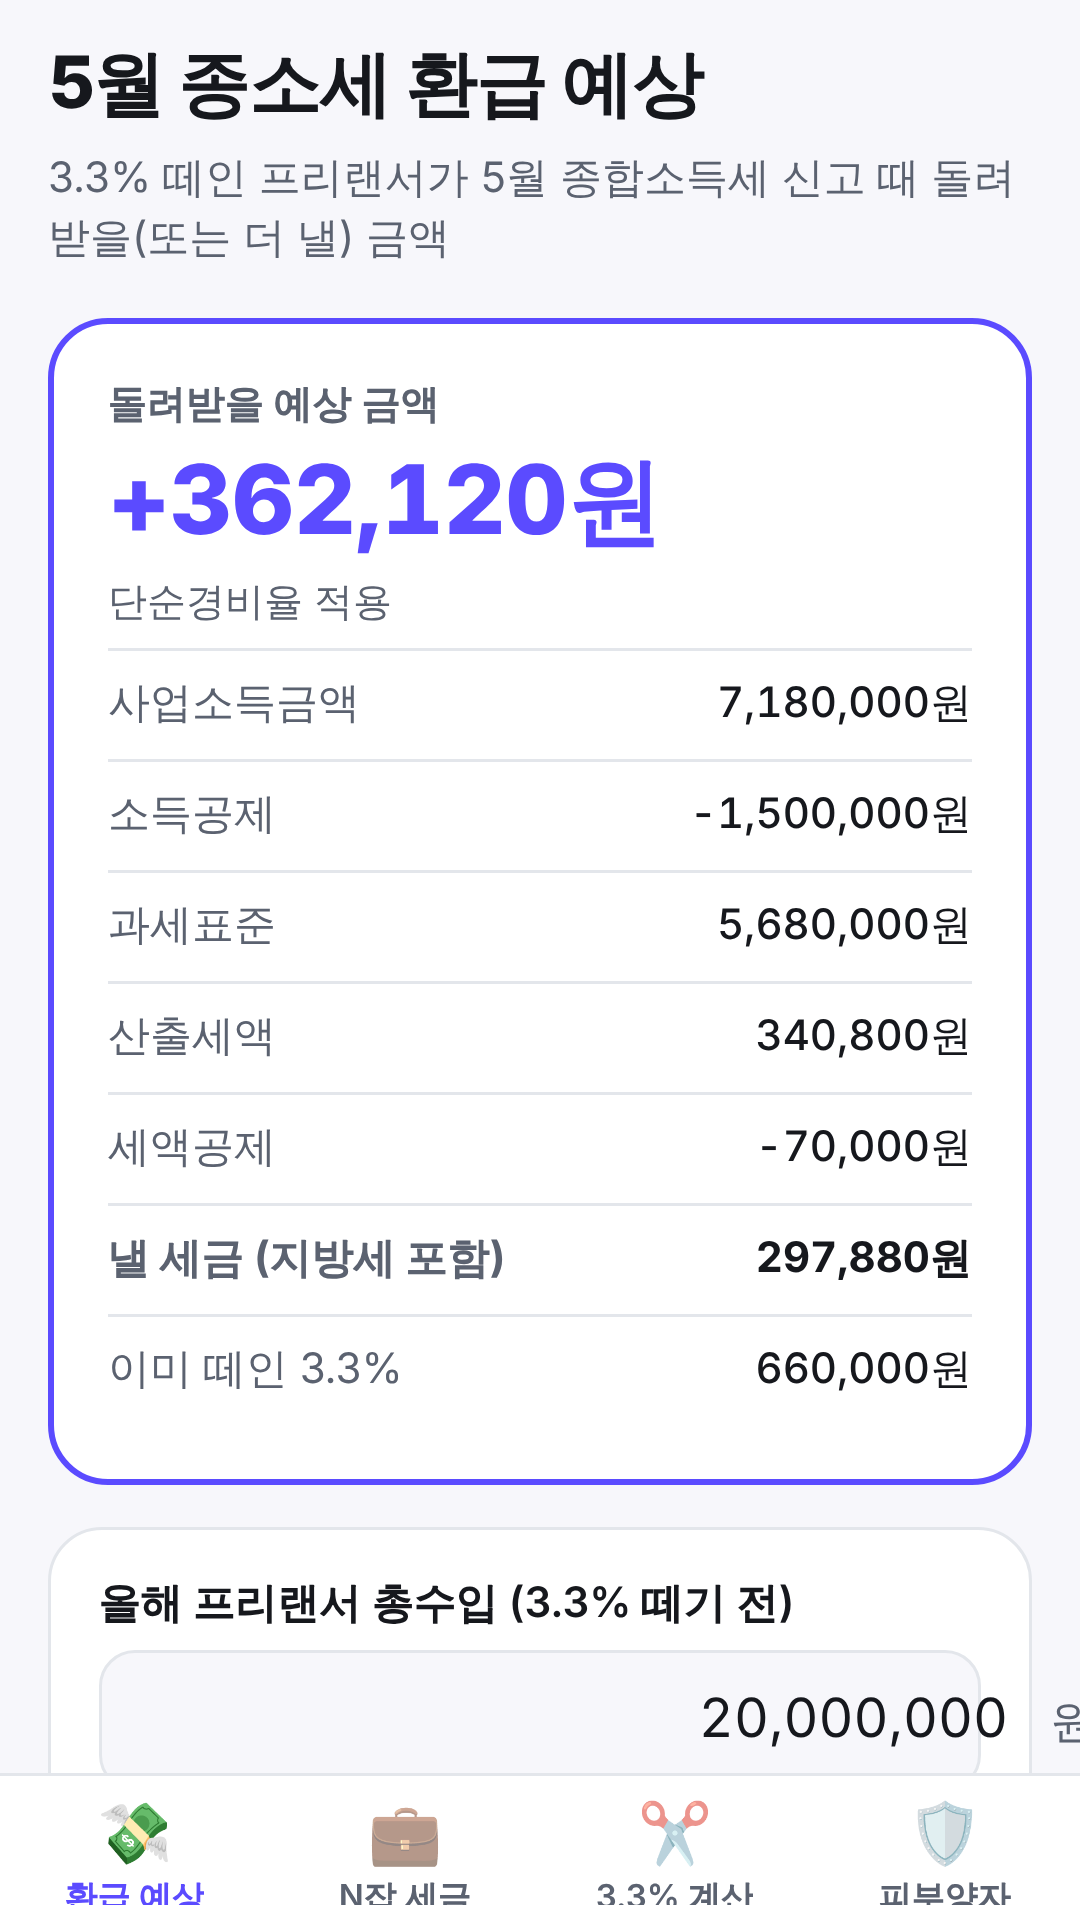
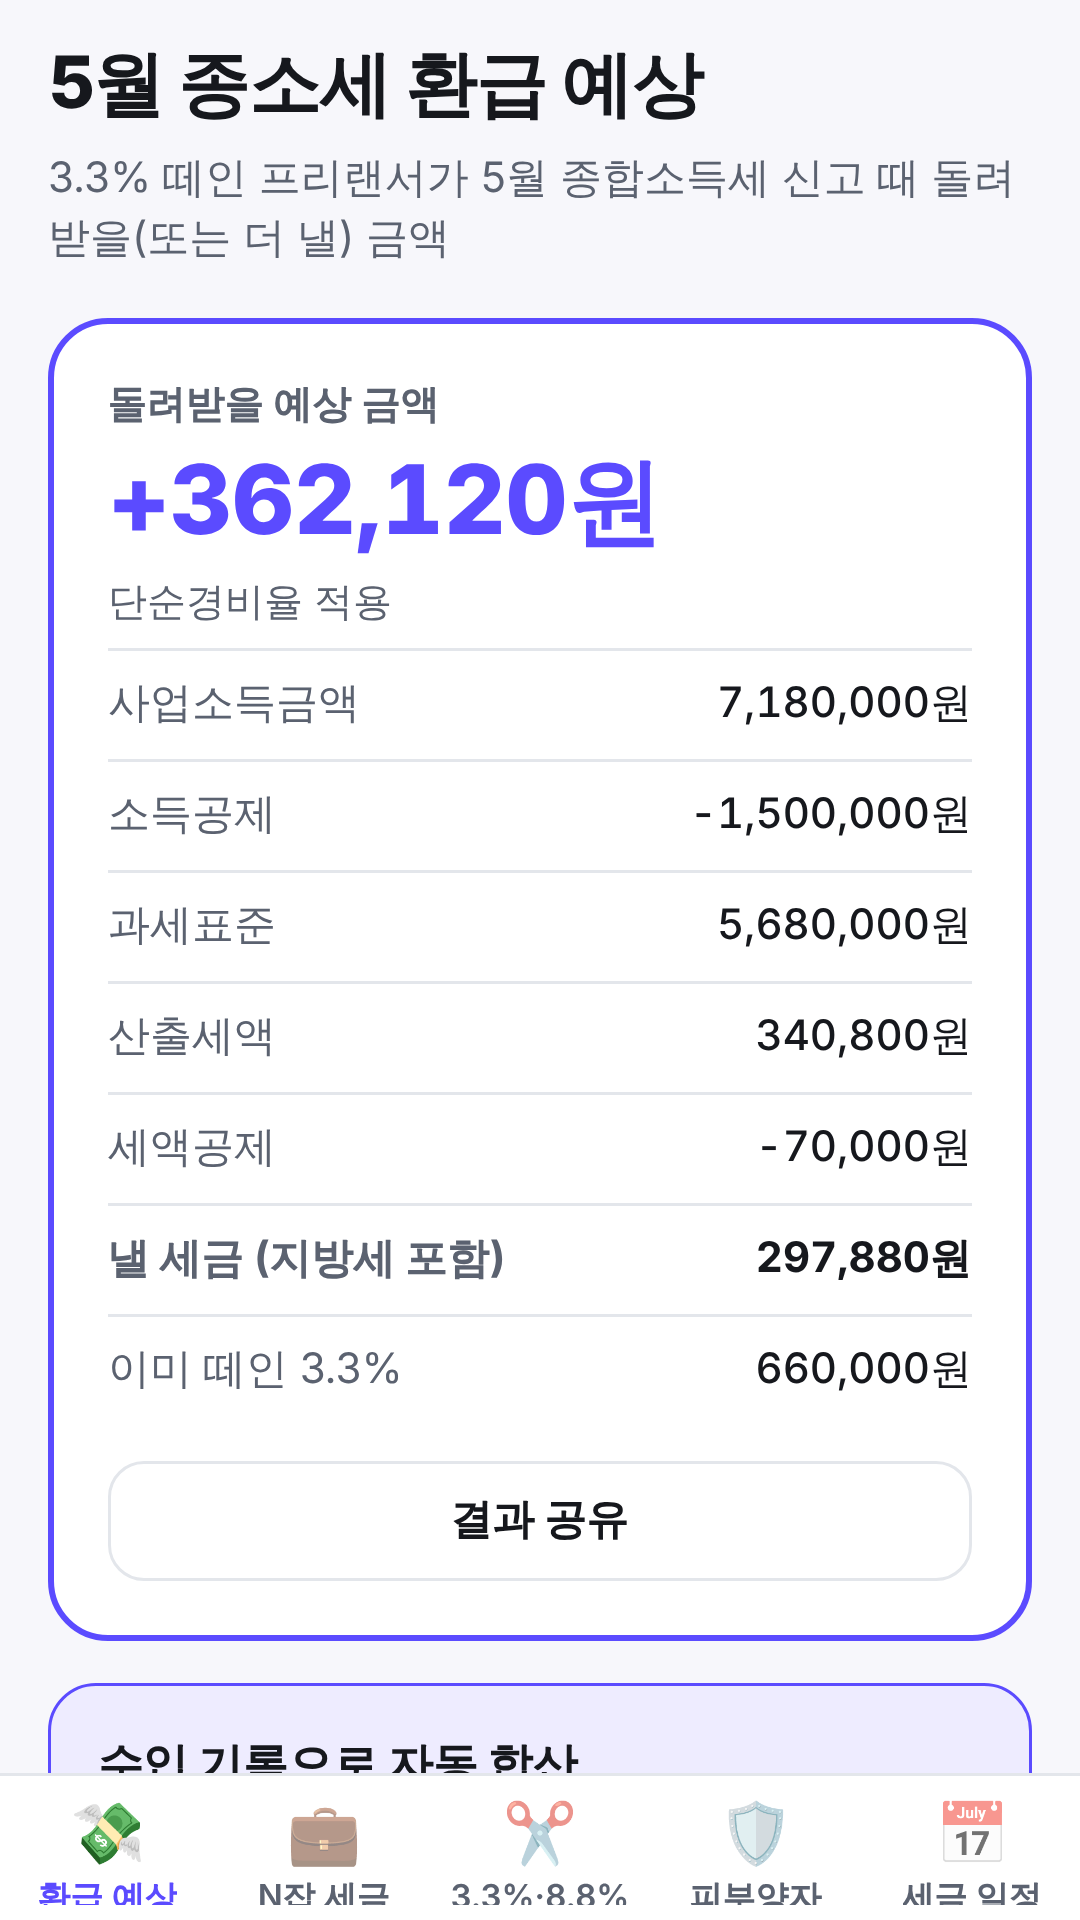
v1.5.1: UI polish and refreshed store listing
- Screens under a stack header no longer repeat their title in the body
- Shorter EITC row label so amounts stay on one line
- Store description covers the ledger, EITC, regional premium, 8.8%
  and reminders; seven 1080x1920 screenshots from the current build

diff --git a/src/components/Screen.tsx b/src/components/Screen.tsx
@@ -13,7 +13,8 @@ export function Screen({ title, subtitle, children, underHeader = false }: { tit
       contentContainerStyle={[styles.content, { paddingTop: underHeader ? 16 : insets.top + 12 }]}
       keyboardShouldPersistTaps="handled">
       <View style={styles.header}>
-        <Text style={[styles.title, { color: t.text }]}>{title}</Text>
+        {/* 상단 헤더가 있는 화면은 헤더에 제목이 이미 있으므로 본문 제목을 생략한다. */}
+        {underHeader ? null : <Text style={[styles.title, { color: t.text }]}>{title}</Text>}
         {subtitle ? <Text style={[styles.subtitle, { color: t.muted }]}>{subtitle}</Text> : null}
       </View>
       {children}

diff --git a/src/app/eitc.tsx b/src/app/eitc.tsx
@@ -18,7 +18,7 @@ export default function EitcScreen() {
 
   const r = calcEitc({ type, businessRevenue, wage, spouseEarnings, otherIncome, property, late });
   const rows: Row[] = [
-    { label: '내 총급여액 등 (3.3% 수입 × 90% + 근로)', value: won(r.ownEarnings) },
+    { label: '내 총급여액 등', value: won(r.ownEarnings) },
     { label: '가구 총급여액 등', value: won(r.earnings) },
     { label: '가구 연간 총소득', value: won(r.totalIncome) },
   ];

diff --git a/store/listing.md b/store/listing.md
@@ -13,20 +13,30 @@
 
 ■ 5월 종합소득세 환급 예상
 · 단순경비율·기준경비율 자동 판정 (작년 수입 3,600만원 기준)
-· 기준경비율 2.8배·3.4배 상한 반영
-· 인적공제, 국민연금, 노란우산공제, 자녀세액공제 반영
+· 기준경비율 2.8배·3.4배 상한, 인적공제·국민연금·노란우산·자녀세액공제 반영
 · 업종별 경비율 직접 수정 가능
+
+■ 수입 기록
+· 지급받을 때마다 기록하면 연간 수입·떼인 세금·실수령액 자동 합산
+· 버튼 한 번으로 환급·피부양자·근로장려금 계산에 반영
 
 ■ N잡 직장인 세금
 · 원천징수영수증 숫자 3개 + 부업 수입으로 5월 추가 납부액 계산
-· 부업 때문에 늘어난 세금을 한눈에
 
-■ 3.3% 계산기
+■ 3.3%·8.8% 계산기
 · 세전 → 실수령, 받고 싶은 금액 → 청구할 세전 금액 역산
+· 강연료·원고료(기타소득 8.8%)와 분리과세·종합과세 중 유리한 쪽 비교
 
-■ 건강보험 피부양자 확인
-· 사업소득 500만원, 합산소득 2,000만원, 재산 기준으로 유지 여부 판정
-· 피부양자를 유지하면서 더 벌 수 있는 금액 표시
+■ 건강보험 피부양자 + 지역가입자 보험료
+· 사업소득 500만원·합산소득 2,000만원·재산 기준으로 유지 여부 판정
+· 탈락하면 매달 낼 건강보험료(소득·재산·장기요양)까지 계산
+
+■ 근로장려금
+· 단독·홑벌이·맞벌이 가구별 자격과 예상 지급액
+
+■ 세금 일정과 마감 알림
+· 5월 종소세, 11월 중간예납·건보료 재산정 등 D-day
+· 시작일·마감 3일 전 알림 (기기 안에서만 예약)
 
 ■ 이런 분께
 · 3.3% 원천징수되는 프리랜서, 강사, 크리에이터, 개발자
@@ -44,9 +54,10 @@ https://github.com/Pinchpeach/apps_pr/blob/main/docs/privacy-policy.md
 ## 데이터 보안 (Play Console)
 - 수집하는 데이터: 없음
 - 공유하는 데이터: 없음
-- 기기에만 저장: 사용자가 입력한 계산값
+- 기기에만 저장: 사용자가 입력한 계산값과 수입 기록
+- 알림: 기기 안에서 예약하는 로컬 알림만 사용 (푸시·추적 없음)
 
 ## 그래픽
 - 앱 아이콘 512×512: `assets/icon.png`를 512로 축소해 업로드
 - 그래픽 이미지 1024×500: `store/feature-graphic.png`
-- 휴대전화 스크린샷 1080×1920: `store/screenshots/` (4장)
+- 휴대전화 스크린샷 1080×1920: `store/screenshots/` (7장)

diff --git a/CHANGELOG.md b/CHANGELOG.md
@@ -2,6 +2,11 @@
 
 버전은 `app.json`의 `expo.version`과 같으며, 각 버전은 `release/vX.Y.Z` 브랜치로 남겨 언제든 되돌릴 수 있습니다.
 
+## v1.5.1 — 2026-10-21
+- 상단 헤더가 있는 화면(수입 기록·근로장려금·앱 정보)에서 제목이 두 번 보이던 문제 수정
+- 근로장려금 결과 항목 이름을 짧게 해 금액이 줄바꿈되지 않도록 함
+- 스토어 등록 자료 갱신: 설명에 수입 기록·근로장려금·지역보험료·8.8%·세금 알림 추가, 스크린샷 7장
+
 ## v1.5.0 — 2026-10-21
 - 수입 기록 화면: 지급 건별(날짜·지급처·세전 금액·3.3%/8.8%) 기록, 연도별 합계와 떼인 세금·실수령액, 삭제
 - 「이 합계를 계산기에 반영」: 환급 예상·피부양자·근로장려금·기타소득 비교에 연간 수입을 한 번에 입력
